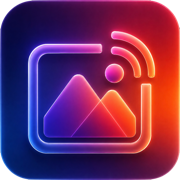
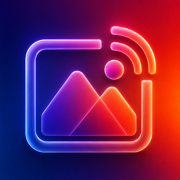
V2 - Glass

diff --git a/index.html b/index.html
@@ -3,10 +3,10 @@
 <head>
   <meta charset="utf-8">
   <title>FrameConnect</title>
-  <link rel="icon" type="image/png" href="FrameConnect_app.png?v=2">
-  <link rel="apple-touch-icon" sizes="180x180" href="apple-touch-icon.png?v=2">
-  <link rel="apple-touch-icon-precomposed" sizes="180x180" href="apple-touch-icon.png?v=2">
-  <link rel="manifest" href="manifest.webmanifest?v=2">
+  <link rel="icon" type="image/png" href="FrameConnect_app_full.png?v=3">
+  <link rel="apple-touch-icon" sizes="180x180" href="apple-touch-icon.png?v=3">
+  <link rel="apple-touch-icon-precomposed" sizes="180x180" href="apple-touch-icon.png?v=3">
+  <link rel="manifest" href="manifest.webmanifest?v=3">
   <meta name="theme-color" content="#e7e8ec">
   <meta name="mobile-web-app-capable" content="yes">
   <meta name="apple-mobile-web-app-capable" content="yes">
@@ -397,7 +397,7 @@ document.addEventListener('DOMContentLoaded', async function() {
   </script>
 
   <script type="__bundler/template">
-"<!DOCTYPE html>\n<html><head>\n<meta charset=\"utf-8\">\n<meta name=\"viewport\" content=\"width=device-width, initial-scale=1\">\n<title>FrameConnect<\u002Ftitle>\n<script src=\"dfd8fffe-2038-4689-8d8f-50657b5fa29a\"><\u002Fscript>\n<\u002Fhead>\n<body>\n<x-dc>\n<helmet>\n  \n  <link rel=\"icon\" type=\"image/png\" href=\"FrameConnect_app.png?v=2\">\n  <link rel=\"apple-touch-icon\" sizes=\"180x180\" href=\"apple-touch-icon.png?v=2\">\n  <link rel=\"apple-touch-icon-precomposed\" sizes=\"180x180\" href=\"apple-touch-icon.png?v=2\">\n  <link rel=\"manifest\" href=\"manifest.webmanifest?v=2\">\n  <meta name=\"theme-color\" content=\"#e7e8ec\">\n  <meta name=\"mobile-web-app-capable\" content=\"yes\">\n  <meta name=\"apple-mobile-web-app-capable\" content=\"yes\">\n  <meta name=\"apple-mobile-web-app-title\" content=\"FrameConnect\">\n  <style>\n    @keyframes spin { to { transform: rotate(360deg); } }\n    @keyframes orbFloat1 { 0%,100% { transform: translate(-10%,-10%) scale(1); } 50% { transform: translate(8%,6%) scale(1.15); } }\n    @keyframes orbFloat2 { 0%,100% { transform: translate(6%,8%) scale(1.1); } 50% { transform: translate(-8%,-6%) scale(1); } }\n    @keyframes orbFloat3 { 0%,100% { transform: translate(0%,10%) scale(1); } 50% { transform: translate(-6%,-4%) scale(1.08); } }\n    @keyframes fadeUp { from { opacity: 0; transform: translateY(10px); } to { opacity: 1; transform: translateY(0); } }\n    @keyframes logoFloat { 0%,100% { transform: translateY(0) scale(1); } 50% { transform: translateY(-8px) scale(1.035); } }\n    @keyframes glowPulse { 0%,100% { opacity: 0.55; } 50% { opacity: 0.95; } }\n    @keyframes shimmer { 0% { transform: translateX(-120%) rotate(8deg); } 100% { transform: translateX(120%) rotate(8deg); } }\n    @keyframes ringPulse { 0%,100% { transform: scale(1); opacity: 0.9; } 50% { transform: scale(1.06); opacity: 0.5; } }\n    @keyframes gradientMove { 0%,100% { background-position: 0% 50%; } 50% { background-position: 100% 50%; } }\n    @keyframes dotBounce { 0%,80%,100% { transform: scale(0.6); opacity: 0.4; } 40% { transform: scale(1); opacity: 1; } }\n    html, body { margin: 0; height: 100%; width: 100%; overflow-x: hidden; }\n    body { -webkit-tap-highlight-color: transparent; }\n    * { box-sizing: border-box; }\n  <\u002Fstyle>\n<\u002Fhelmet>\n\n<div style=\"min-height: 100dvh; width: 100vw; max-width: 100%; display: flex; align-items: center; justify-content: center; position: relative; overflow: hidden; background: radial-gradient(120% 120% at 50% 0%, #f4f4f7 0%, #e7e8ec 55%, #dcdde3 100%); font-family: -apple-system, BlinkMacSystemFont, 'SF Pro Display', 'SF Pro Text', system-ui, sans-serif; padding: max(20px, env(safe-area-inset-top)) 20px max(20px, env(safe-area-inset-bottom));\">\n\n  <div style=\"position: absolute; width: 65vmax; height: 65vmax; top: -22%; left: -22%; border-radius: 50%; background: radial-gradient(circle at 35% 35%, {{ orbColor1 }}, transparent 70%); filter: blur(36px); opacity: 0.75; animation: orbFloat1 18s ease-in-out infinite, glowPulse 6s ease-in-out infinite;\"><\u002Fdiv>\n  <div style=\"position: absolute; width: 60vmax; height: 60vmax; bottom: -28%; right: -22%; border-radius: 50%; background: radial-gradient(circle at 60% 40%, {{ orbColor2 }}, transparent 70%); filter: blur(36px); opacity: 0.7; animation: orbFloat2 21s ease-in-out infinite, glowPulse 7s ease-in-out infinite 1s;\"><\u002Fdiv>\n  <div style=\"position: absolute; width: 48vmax; height: 48vmax; top: 28%; right: -12%; border-radius: 50%; background: radial-gradient(circle at 50% 50%, {{ orbColor3 }}, transparent 70%); filter: blur(36px); opacity: 0.6; animation: orbFloat3 24s ease-in-out infinite, glowPulse 8s ease-in-out infinite 2s;\"><\u002Fdiv>\n  <div style=\"position: absolute; width: 30vmax; height: 30vmax; top: 55%; left: 8%; border-radius: 50%; background: radial-gradient(circle, {{ orbColor4 }}, transparent 70%); filter: blur(30px); opacity: 0.55; animation: orbFloat3 16s ease-in-out infinite reverse, glowPulse 5s ease-in-out infinite;\"><\u002Fdiv>\n\n  <div style=\"position: relative; z-index: 1; width: 100%; max-width: 420px; height: 100%; padding: 8vh 24px max(24px, env(safe-area-inset-bottom)); display: flex; flex-direction: column; align-items: center; justify-content: space-between; text-align: center; animation: fadeUp 0.6s ease both;\">\n\n    <div style=\"display: flex; flex-direction: column; align-items: center;\">\n      <div style=\"position: relative; width: 168px; height: 168px; margin-top: 4vh;\">\n        <div style=\"position: absolute; inset: -24px; border-radius: 50%; background: conic-gradient(from 0deg, {{ orbColor1 }}, {{ orbColor2 }}, {{ orbColor3 }}, {{ orbColor1 }}); filter: blur(16px); opacity: 0.55; animation: spin 10s linear infinite, ringPulse 4s ease-in-out infinite;\"><\u002Fdiv>\n        <div style=\"position: absolute; inset: -18px; border-radius: 50%; border: 2px dashed rgba(15,23,42,0.16); animation: spin 14s linear infinite;\"><\u002Fdiv>\n        <div style=\"position: absolute; inset: -34px; border-radius: 50%; border: 1.5px solid rgba(15,23,42,0.1); animation: spin 22s linear infinite reverse;\"><\u002Fdiv>\n        <img src=\"FrameConnect.png\" alt=\"FrameConnect\" style=\"position: relative; width: 100%; height: 100%; object-fit: contain; display: block; filter: drop-shadow(0 8px 20px rgba(15,23,42,0.16)); animation: logoFloat 3.6s ease-in-out infinite; will-change: transform;\">\n      <\u002Fdiv>\n\n      <h1 style=\"margin-top: 56px; font-size: 26px; font-weight: 650; letter-spacing: -0.02em; margin-bottom: 10px; color: #0d0f14; text-shadow: 0 1px 12px rgba(255,255,255,0.6);\">Bienvenue.<\u002Fh1>\n\n      <p style=\"font-size: 15px; margin: 0 0 4px; color: rgba(30,32,43,0.7); line-height: 1.5; font-weight: 500;\">Connexion en cours<\u002Fp>\n\n      <div style=\"display: flex; gap: 6px; margin-top: 10px;\">\n        <div style=\"width: 7px; height: 7px; border-radius: 50%; background: {{ accent }}; animation: dotBounce 1.1s ease-in-out infinite;\"><\u002Fdiv>\n        <div style=\"width: 7px; height: 7px; border-radius: 50%; background: {{ accent }}; animation: dotBounce 1.1s ease-in-out 0.15s infinite;\"><\u002Fdiv>\n        <div style=\"width: 7px; height: 7px; border-radius: 50%; background: {{ accent }}; animation: dotBounce 1.1s ease-in-out 0.3s infinite;\"><\u002Fdiv>\n      <\u002Fdiv>\n\n    <\u002Fdiv>\n\n    <div style=\"display: flex; flex-direction: column; align-items: center; margin-top: 40px;\">\n      <div style=\"display: inline-block; padding: 4px; border-radius: 999px; background: conic-gradient(from 0deg, {{ orbColor1 }}, {{ orbColor2 }}, {{ orbColor3 }}, {{ orbColor1 }}); animation: spin 1.4s linear infinite; opacity: {{ manualOpacity }}; transform: {{ manualTransform }}; pointer-events: {{ manualPointerEvents }}; transition: opacity 0.5s ease, transform 0.5s ease;\">\n        <a href=\"{{ targetUrl }}\" style=\"display: {{ manualDisplay }}; padding: 10px 20px; font-size: 12.5px; font-weight: 600; color: #0d0f14; background: rgba(255,255,255,0.85); backdrop-filter: blur(20px) saturate(160%); -webkit-backdrop-filter: blur(20px) saturate(160%); border-radius: 999px; text-decoration: none; box-shadow: 0 1px 0 rgba(255,255,255,0.9) inset, 0 6px 16px rgba(15,23,42,0.1);\">\n          Continuer manuellement\n        <\u002Fa>\n      <\u002Fdiv>\n\n      <p style=\"margin-top: 16px; font-size: 12.5px; color: rgba(30,32,43,0.5); font-weight: 500; line-height: 1.5;\">Un problème ?<br>Contactez le fondateur de FrameConnect...<\u002Fp>\n    <\u002Fdiv>\n\n  <\u002Fdiv>\n<\u002Fdiv>\n\n<\u002Fx-dc>\n<script type=\"text/x-dc\" data-dc-script=\"\" data-props=\"{\n  &quot;$preview&quot;: {&quot;width&quot;: 420, &quot;height&quot;: 780},\n  &quot;targetUrl&quot;: {&quot;editor&quot;: &quot;text&quot;, &quot;default&quot;: &quot;http://95.176.96.36:5000&quot;, &quot;tsType&quot;: &quot;string&quot;, &quot;section&quot;: &quot;Comportement&quot;},\n  &quot;redirectDelay&quot;: {&quot;editor&quot;: &quot;range&quot;, &quot;default&quot;: 5000, &quot;min&quot;: 500, &quot;max&quot;: 8000, &quot;step&quot;: 100, &quot;unit&quot;: &quot;ms&quot;, &quot;tsType&quot;: &quot;number&quot;, &quot;section&quot;: &quot;Comportement&quot;},\n  &quot;accentColor&quot;: {&quot;editor&quot;: &quot;color&quot;, &quot;default&quot;: &quot;#2f80ed&quot;, &quot;tsType&quot;: &quot;string&quot;, &quot;section&quot;: &quot;Style&quot;}\n}\">\nclass Component extends DCLogic {\n  state = { manualVisible: false, dots: '' };\n\n  componentDidMount() {\n    const delay = this.props.redirectDelay ?? 5000;\n    const url = this.props.targetUrl ?? 'http://95.176.96.36:5000';\n\n    this._redirectTimer = setTimeout(() => {\n      window.location.href = url;\n    }, delay);\n\n    this._showTimer = setTimeout(() => {\n      this.setState({ manualVisible: true });\n    }, delay);\n  }\n\n  componentWillUnmount() {\n    clearTimeout(this._redirectTimer);\n    clearTimeout(this._showTimer);\n  }\n\n  renderVals() {\n    const accent = this.props.accentColor ?? '#2f80ed';\n    return {\n      targetUrl: this.props.targetUrl ?? 'http://95.176.96.36:5000',\n      manualVisible: this.state.manualVisible,\n      manualDisplay: 'inline-block',\n      manualPointerEvents: this.state.manualVisible ? 'auto' : 'none',\n      manualOpacity: this.state.manualVisible ? 1 : 0,\n      manualTransform: this.state.manualVisible ? 'translateY(0)' : 'translateY(6px)',\n      dots: this.state.dots,\n      accent,\n      orbColor1: this.props.orbColor1 ?? 'oklch(0.82 0.09 55)',\n      orbColor2: this.props.orbColor2 ?? 'oklch(0.8 0.09 300)',\n      orbColor3: this.props.orbColor3 ?? 'oklch(0.85 0.07 200)',\n      orbColor4: this.props.orbColor4 ?? 'oklch(0.8 0.1 150)',\n    };\n  }\n}\n\n<\u002Fscript>\n\n\n<\u002Fbody><\u002Fhtml>"
+"<!DOCTYPE html>\n<html><head>\n<meta charset=\"utf-8\">\n<meta name=\"viewport\" content=\"width=device-width, initial-scale=1\">\n<title>FrameConnect<\u002Ftitle>\n<script src=\"dfd8fffe-2038-4689-8d8f-50657b5fa29a\"><\u002Fscript>\n<\u002Fhead>\n<body>\n<x-dc>\n<helmet>\n  \n  <link rel=\"icon\" type=\"image/png\" href=\"FrameConnect_app_full.png?v=3\">\n  <link rel=\"apple-touch-icon\" sizes=\"180x180\" href=\"apple-touch-icon.png?v=3\">\n  <link rel=\"apple-touch-icon-precomposed\" sizes=\"180x180\" href=\"apple-touch-icon.png?v=3\">\n  <link rel=\"manifest\" href=\"manifest.webmanifest?v=3\">\n  <meta name=\"theme-color\" content=\"#e7e8ec\">\n  <meta name=\"mobile-web-app-capable\" content=\"yes\">\n  <meta name=\"apple-mobile-web-app-capable\" content=\"yes\">\n  <meta name=\"apple-mobile-web-app-title\" content=\"FrameConnect\">\n  <style>\n    @keyframes spin { to { transform: rotate(360deg); } }\n    @keyframes orbFloat1 { 0%,100% { transform: translate(-10%,-10%) scale(1); } 50% { transform: translate(8%,6%) scale(1.15); } }\n    @keyframes orbFloat2 { 0%,100% { transform: translate(6%,8%) scale(1.1); } 50% { transform: translate(-8%,-6%) scale(1); } }\n    @keyframes orbFloat3 { 0%,100% { transform: translate(0%,10%) scale(1); } 50% { transform: translate(-6%,-4%) scale(1.08); } }\n    @keyframes fadeUp { from { opacity: 0; transform: translateY(10px); } to { opacity: 1; transform: translateY(0); } }\n    @keyframes logoFloat { 0%,100% { transform: translateY(0) scale(1); } 50% { transform: translateY(-8px) scale(1.035); } }\n    @keyframes glowPulse { 0%,100% { opacity: 0.55; } 50% { opacity: 0.95; } }\n    @keyframes shimmer { 0% { transform: translateX(-120%) rotate(8deg); } 100% { transform: translateX(120%) rotate(8deg); } }\n    @keyframes ringPulse { 0%,100% { transform: scale(1); opacity: 0.9; } 50% { transform: scale(1.06); opacity: 0.5; } }\n    @keyframes gradientMove { 0%,100% { background-position: 0% 50%; } 50% { background-position: 100% 50%; } }\n    @keyframes dotBounce { 0%,80%,100% { transform: scale(0.6); opacity: 0.4; } 40% { transform: scale(1); opacity: 1; } }\n    html, body { margin: 0; height: 100%; width: 100%; overflow-x: hidden; }\n    body { -webkit-tap-highlight-color: transparent; }\n    * { box-sizing: border-box; }\n  <\u002Fstyle>\n<\u002Fhelmet>\n\n<div style=\"min-height: 100dvh; width: 100vw; max-width: 100%; display: flex; align-items: center; justify-content: center; position: relative; overflow: hidden; background: radial-gradient(120% 120% at 50% 0%, #f4f4f7 0%, #e7e8ec 55%, #dcdde3 100%); font-family: -apple-system, BlinkMacSystemFont, 'SF Pro Display', 'SF Pro Text', system-ui, sans-serif; padding: max(20px, env(safe-area-inset-top)) 20px max(20px, env(safe-area-inset-bottom));\">\n\n  <div style=\"position: absolute; width: 65vmax; height: 65vmax; top: -22%; left: -22%; border-radius: 50%; background: radial-gradient(circle at 35% 35%, {{ orbColor1 }}, transparent 70%); filter: blur(36px); opacity: 0.75; animation: orbFloat1 18s ease-in-out infinite, glowPulse 6s ease-in-out infinite;\"><\u002Fdiv>\n  <div style=\"position: absolute; width: 60vmax; height: 60vmax; bottom: -28%; right: -22%; border-radius: 50%; background: radial-gradient(circle at 60% 40%, {{ orbColor2 }}, transparent 70%); filter: blur(36px); opacity: 0.7; animation: orbFloat2 21s ease-in-out infinite, glowPulse 7s ease-in-out infinite 1s;\"><\u002Fdiv>\n  <div style=\"position: absolute; width: 48vmax; height: 48vmax; top: 28%; right: -12%; border-radius: 50%; background: radial-gradient(circle at 50% 50%, {{ orbColor3 }}, transparent 70%); filter: blur(36px); opacity: 0.6; animation: orbFloat3 24s ease-in-out infinite, glowPulse 8s ease-in-out infinite 2s;\"><\u002Fdiv>\n  <div style=\"position: absolute; width: 30vmax; height: 30vmax; top: 55%; left: 8%; border-radius: 50%; background: radial-gradient(circle, {{ orbColor4 }}, transparent 70%); filter: blur(30px); opacity: 0.55; animation: orbFloat3 16s ease-in-out infinite reverse, glowPulse 5s ease-in-out infinite;\"><\u002Fdiv>\n\n  <div style=\"position: relative; z-index: 1; width: 100%; max-width: 420px; height: 100%; padding: 8vh 24px max(24px, env(safe-area-inset-bottom)); display: flex; flex-direction: column; align-items: center; justify-content: space-between; text-align: center; animation: fadeUp 0.6s ease both;\">\n\n    <div style=\"display: flex; flex-direction: column; align-items: center;\">\n      <div style=\"position: relative; width: 168px; height: 168px; margin-top: 4vh;\">\n        <div style=\"position: absolute; inset: -24px; border-radius: 50%; background: conic-gradient(from 0deg, {{ orbColor1 }}, {{ orbColor2 }}, {{ orbColor3 }}, {{ orbColor1 }}); filter: blur(16px); opacity: 0.55; animation: spin 10s linear infinite, ringPulse 4s ease-in-out infinite;\"><\u002Fdiv>\n        <div style=\"position: absolute; inset: -18px; border-radius: 50%; border: 2px dashed rgba(15,23,42,0.16); animation: spin 14s linear infinite;\"><\u002Fdiv>\n        <div style=\"position: absolute; inset: -34px; border-radius: 50%; border: 1.5px solid rgba(15,23,42,0.1); animation: spin 22s linear infinite reverse;\"><\u002Fdiv>\n        <img src=\"FrameConnect.png\" alt=\"FrameConnect\" style=\"position: relative; width: 100%; height: 100%; object-fit: contain; display: block; filter: drop-shadow(0 8px 20px rgba(15,23,42,0.16)); animation: logoFloat 3.6s ease-in-out infinite; will-change: transform;\">\n      <\u002Fdiv>\n\n      <h1 style=\"margin-top: 56px; font-size: 26px; font-weight: 650; letter-spacing: -0.02em; margin-bottom: 10px; color: #0d0f14; text-shadow: 0 1px 12px rgba(255,255,255,0.6);\">Bienvenue.<\u002Fh1>\n\n      <p style=\"font-size: 15px; margin: 0 0 4px; color: rgba(30,32,43,0.7); line-height: 1.5; font-weight: 500;\">Connexion en cours<\u002Fp>\n\n      <div style=\"display: flex; gap: 6px; margin-top: 10px;\">\n        <div style=\"width: 7px; height: 7px; border-radius: 50%; background: {{ accent }}; animation: dotBounce 1.1s ease-in-out infinite;\"><\u002Fdiv>\n        <div style=\"width: 7px; height: 7px; border-radius: 50%; background: {{ accent }}; animation: dotBounce 1.1s ease-in-out 0.15s infinite;\"><\u002Fdiv>\n        <div style=\"width: 7px; height: 7px; border-radius: 50%; background: {{ accent }}; animation: dotBounce 1.1s ease-in-out 0.3s infinite;\"><\u002Fdiv>\n      <\u002Fdiv>\n\n    <\u002Fdiv>\n\n    <div style=\"display: flex; flex-direction: column; align-items: center; margin-top: 40px;\">\n      <div style=\"display: inline-block; padding: 4px; border-radius: 999px; background: conic-gradient(from 0deg, {{ orbColor1 }}, {{ orbColor2 }}, {{ orbColor3 }}, {{ orbColor1 }}); animation: spin 1.4s linear infinite; opacity: {{ manualOpacity }}; transform: {{ manualTransform }}; pointer-events: {{ manualPointerEvents }}; transition: opacity 0.5s ease, transform 0.5s ease;\">\n        <a href=\"{{ targetUrl }}\" style=\"display: {{ manualDisplay }}; padding: 10px 20px; font-size: 12.5px; font-weight: 600; color: #0d0f14; background: rgba(255,255,255,0.85); backdrop-filter: blur(20px) saturate(160%); -webkit-backdrop-filter: blur(20px) saturate(160%); border-radius: 999px; text-decoration: none; box-shadow: 0 1px 0 rgba(255,255,255,0.9) inset, 0 6px 16px rgba(15,23,42,0.1);\">\n          Continuer manuellement\n        <\u002Fa>\n      <\u002Fdiv>\n\n      <p style=\"margin-top: 16px; font-size: 12.5px; color: rgba(30,32,43,0.5); font-weight: 500; line-height: 1.5;\">Un problème ?<br>Contactez le fondateur de FrameConnect...<\u002Fp>\n    <\u002Fdiv>\n\n  <\u002Fdiv>\n<\u002Fdiv>\n\n<\u002Fx-dc>\n<script type=\"text/x-dc\" data-dc-script=\"\" data-props=\"{\n  &quot;$preview&quot;: {&quot;width&quot;: 420, &quot;height&quot;: 780},\n  &quot;targetUrl&quot;: {&quot;editor&quot;: &quot;text&quot;, &quot;default&quot;: &quot;http://95.176.96.36:5000&quot;, &quot;tsType&quot;: &quot;string&quot;, &quot;section&quot;: &quot;Comportement&quot;},\n  &quot;redirectDelay&quot;: {&quot;editor&quot;: &quot;range&quot;, &quot;default&quot;: 5000, &quot;min&quot;: 500, &quot;max&quot;: 8000, &quot;step&quot;: 100, &quot;unit&quot;: &quot;ms&quot;, &quot;tsType&quot;: &quot;number&quot;, &quot;section&quot;: &quot;Comportement&quot;},\n  &quot;accentColor&quot;: {&quot;editor&quot;: &quot;color&quot;, &quot;default&quot;: &quot;#2f80ed&quot;, &quot;tsType&quot;: &quot;string&quot;, &quot;section&quot;: &quot;Style&quot;}\n}\">\nclass Component extends DCLogic {\n  state = { manualVisible: false, dots: '' };\n\n  componentDidMount() {\n    const delay = this.props.redirectDelay ?? 5000;\n    const url = this.props.targetUrl ?? 'http://95.176.96.36:5000';\n\n    this._redirectTimer = setTimeout(() => {\n      window.location.href = url;\n    }, delay);\n\n    this._showTimer = setTimeout(() => {\n      this.setState({ manualVisible: true });\n    }, delay);\n  }\n\n  componentWillUnmount() {\n    clearTimeout(this._redirectTimer);\n    clearTimeout(this._showTimer);\n  }\n\n  renderVals() {\n    const accent = this.props.accentColor ?? '#2f80ed';\n    return {\n      targetUrl: this.props.targetUrl ?? 'http://95.176.96.36:5000',\n      manualVisible: this.state.manualVisible,\n      manualDisplay: 'inline-block',\n      manualPointerEvents: this.state.manualVisible ? 'auto' : 'none',\n      manualOpacity: this.state.manualVisible ? 1 : 0,\n      manualTransform: this.state.manualVisible ? 'translateY(0)' : 'translateY(6px)',\n      dots: this.state.dots,\n      accent,\n      orbColor1: this.props.orbColor1 ?? 'oklch(0.82 0.09 55)',\n      orbColor2: this.props.orbColor2 ?? 'oklch(0.8 0.09 300)',\n      orbColor3: this.props.orbColor3 ?? 'oklch(0.85 0.07 200)',\n      orbColor4: this.props.orbColor4 ?? 'oklch(0.8 0.1 150)',\n    };\n  }\n}\n\n<\u002Fscript>\n\n\n<\u002Fbody><\u002Fhtml>"
   </script>
 </body>
 </html>
